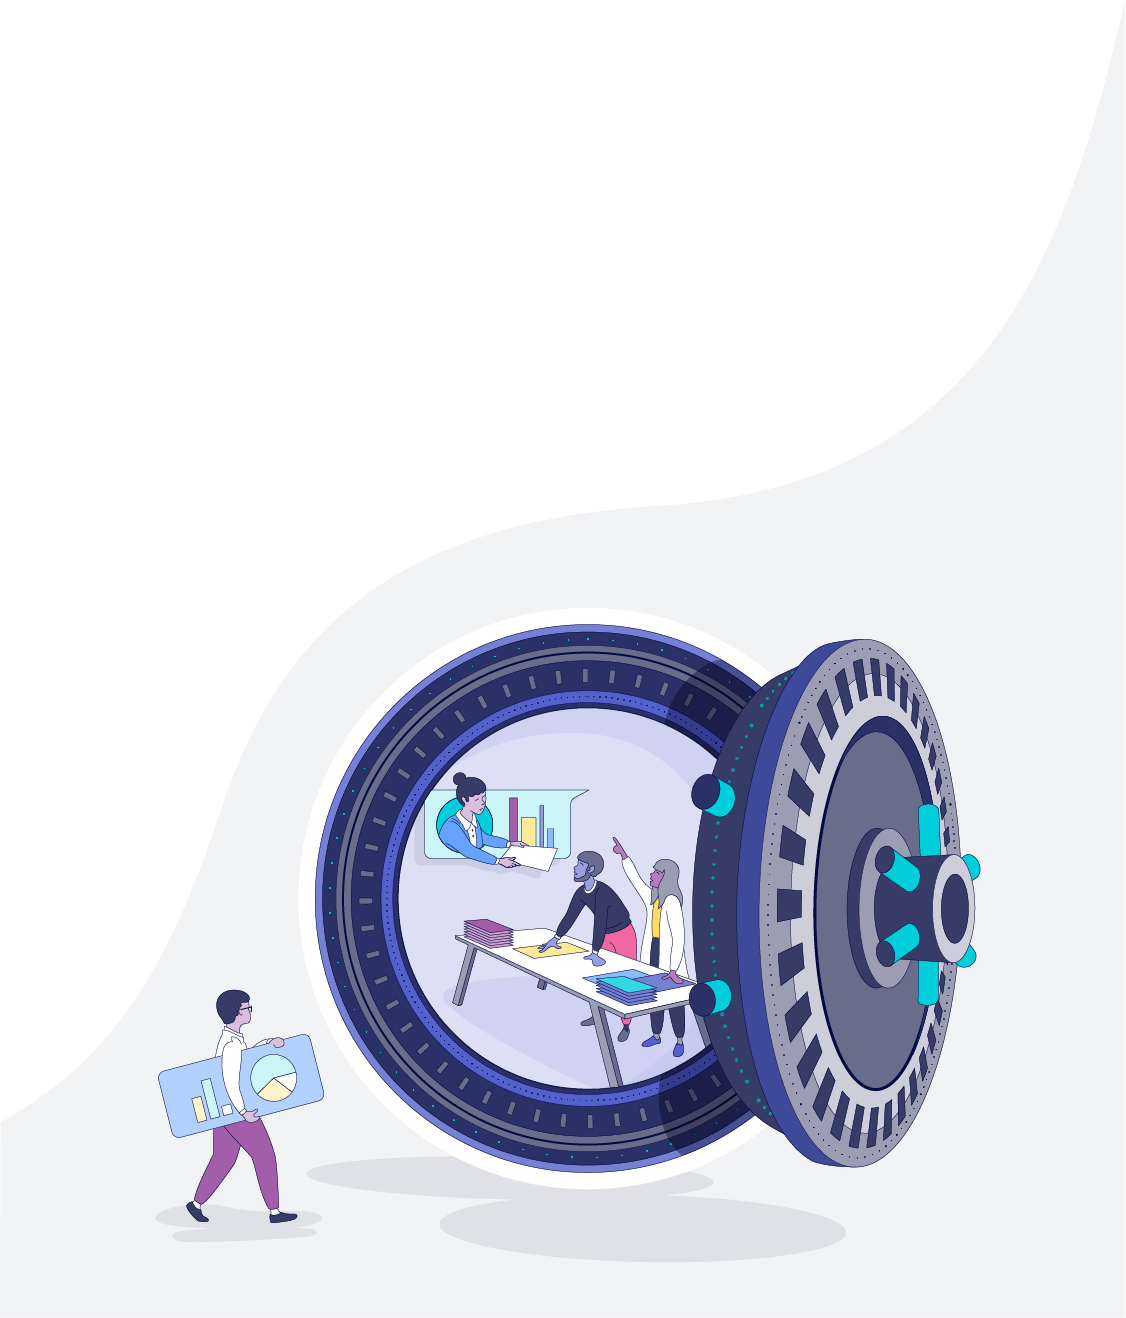
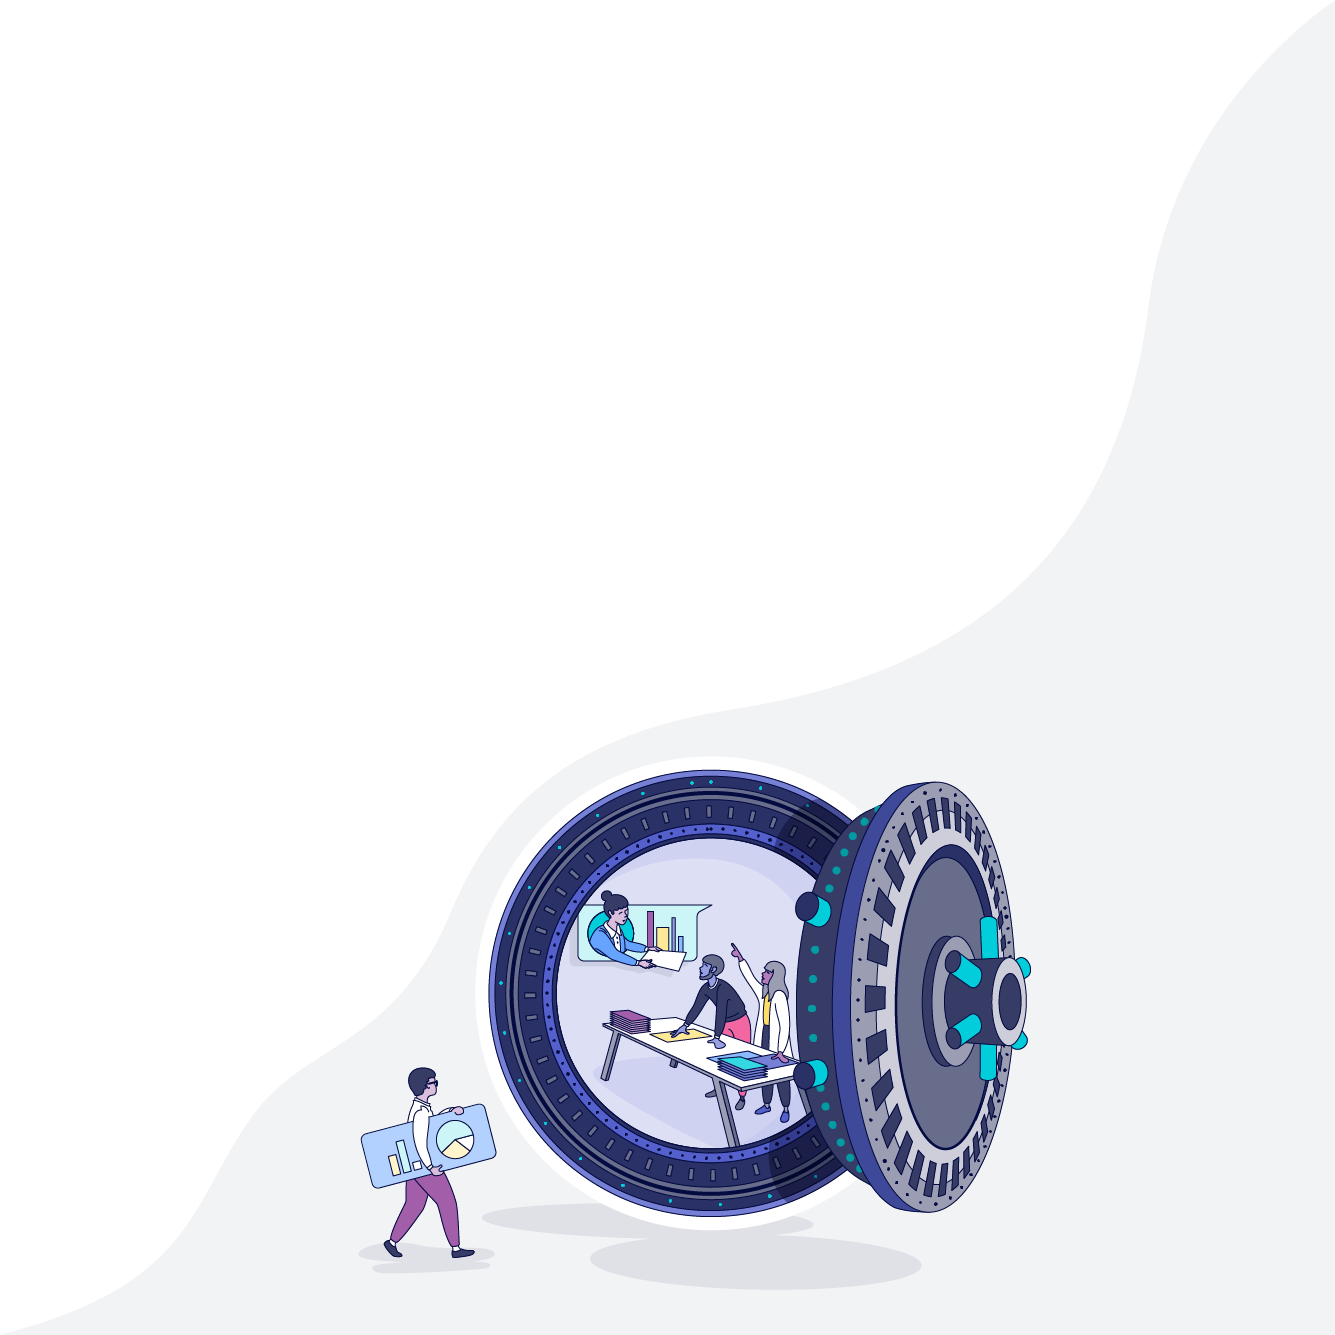
fix: update welcome ilustration

Changed region(s): [[0.1243, 0.4666, 0.8703, 0.9332]]

diff --git a/app/components/login/login-welcome.js b/app/components/login/login-welcome.js
@@ -16,7 +16,7 @@ import { adjustImageDimensions } from '../helpers/image';
 const logoWelcome = require('../../assets/peerio-logo-dark.png');
 const imageWelcome = require('../../assets/welcome-illustration.png');
 
-const { width } = Dimensions.get('window');
+const { height } = Dimensions.get('window');
 
 const logoBar = {
     alignItems: 'center',
@@ -44,9 +44,9 @@ export default class LoginWelcome extends SafeComponent {
             <View style={[signupStyles.page, { flexGrow: 1 }]}>
                 <View style={{ position: 'absolute', bottom: 0, right: 0, left: 0 }}>
                     <Image
-                        resizeMode="cover"
+                        resizeMode="contain"
                         source={imageWelcome}
-                        style={adjustImageDimensions(imageWelcome, width)} />
+                        style={{ height, alignSelf: 'center' }} />
                 </View>
                 <DebugMenu />
                 <DebugMenuTrigger>
